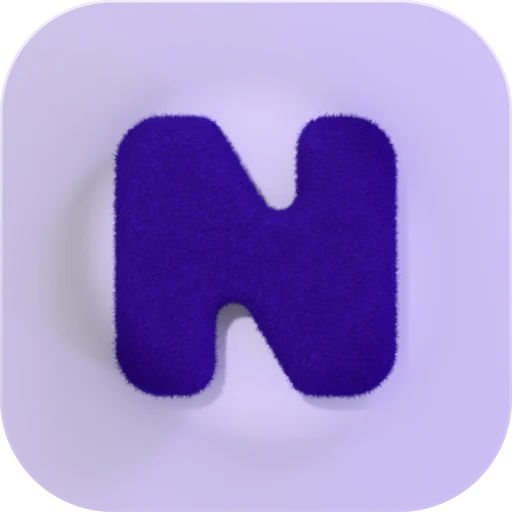
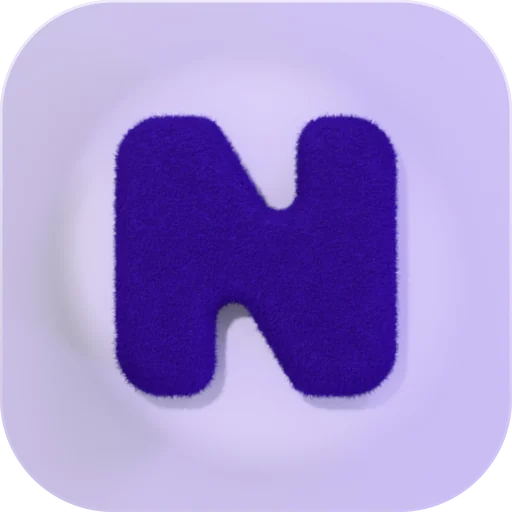
Liked songs: a calmer tile in light themes

diff --git a/src/data/library/likesCover.ts b/src/data/library/likesCover.ts
@@ -4,12 +4,19 @@ import heart from "./likesHeart.webp?inline";
 
 const mix = (from: string, to: string, amount: number) => toHex(composite({ ...parseColor(to), a: amount }, parseColor(from)));
 
+const grey = (color: string) => {
+  const { r, g, b } = parseColor(color);
+  const level = 0.2126 * r + 0.7152 * g + 0.0722 * b;
+  return toHex({ r: level, g: level, b: level, a: 1 });
+};
+
 // From the deepest shadow on the wall to the brightest edge of the heart
 export function likesCoverTones(accent: string, field: string): string[] {
   const a = toHex(parseColor(accent));
   const f = toHex(parseColor(field));
   if (luminance(parseColor(a)) < luminance(parseColor(f))) {
-    return [mix(a, "#000000", 0.6), a, mix(a, "#ffffff", 0.5), mix(a, "#ffffff", 0.9), "#ffffff"];
+    const wall = mix(a, grey(a), 0.33);
+    return [mix(wall, "#000000", 0.6), wall, mix(wall, "#ffffff", 0.5), mix(wall, "#ffffff", 0.9), "#ffffff"];
   }
   return [mix(f, "#000000", 0.75), mix(f, a, 0.13), mix(a, f, 0.35), a, mix(a, "#ffffff", 0.75)];
 }

diff --git a/src/data/library/likesCover.test.ts b/src/data/library/likesCover.test.ts
@@ -4,9 +4,9 @@ import presetTokens from "@/data/look/presetTokens.json";
 import { likesCoverSvg, likesCoverTones } from "./likesCover";
 
 describe("likes cover", () => {
-  it("sets a white heart on the accent in a light theme", () => {
+  it("sets a white heart on a muted accent in a light theme", () => {
     const tones = likesCoverTones("#4a69b0", "#f4f7ff");
-    expect(tones[1]).toBe("#4a69b0");
+    expect(tones[1]).toBe("#546998");
     expect(tones[4]).toBe("#ffffff");
   });
 
